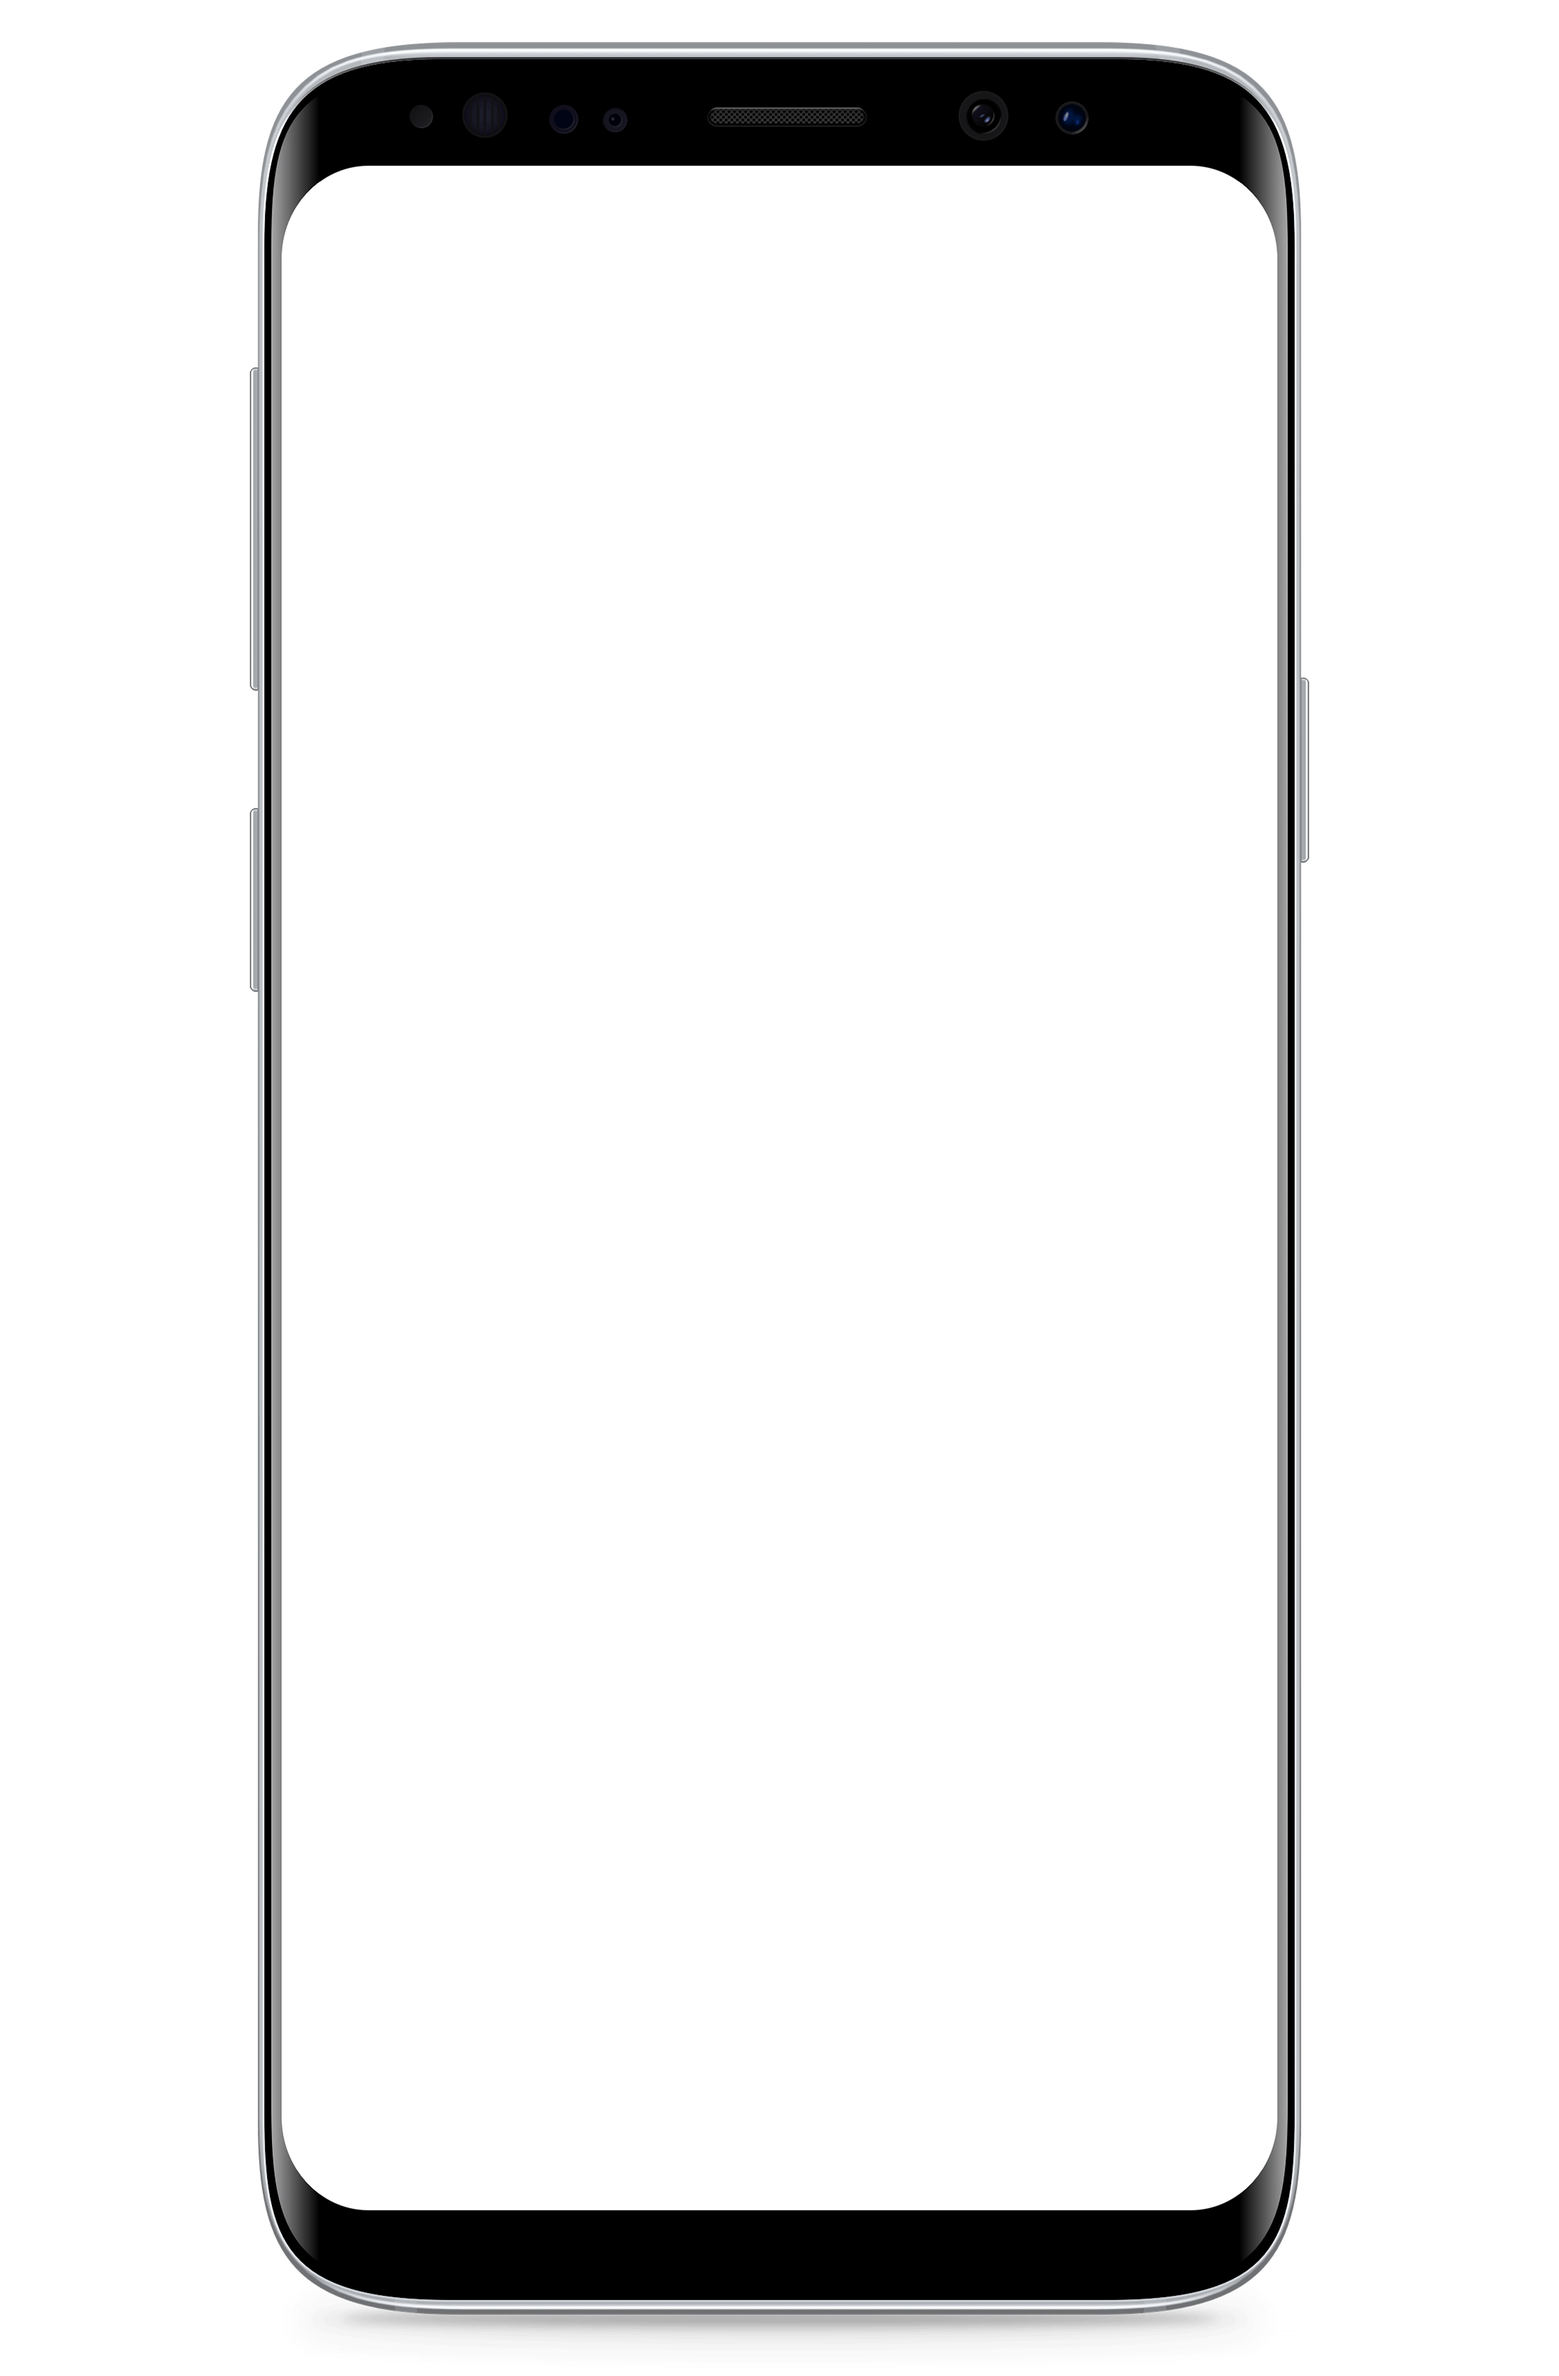
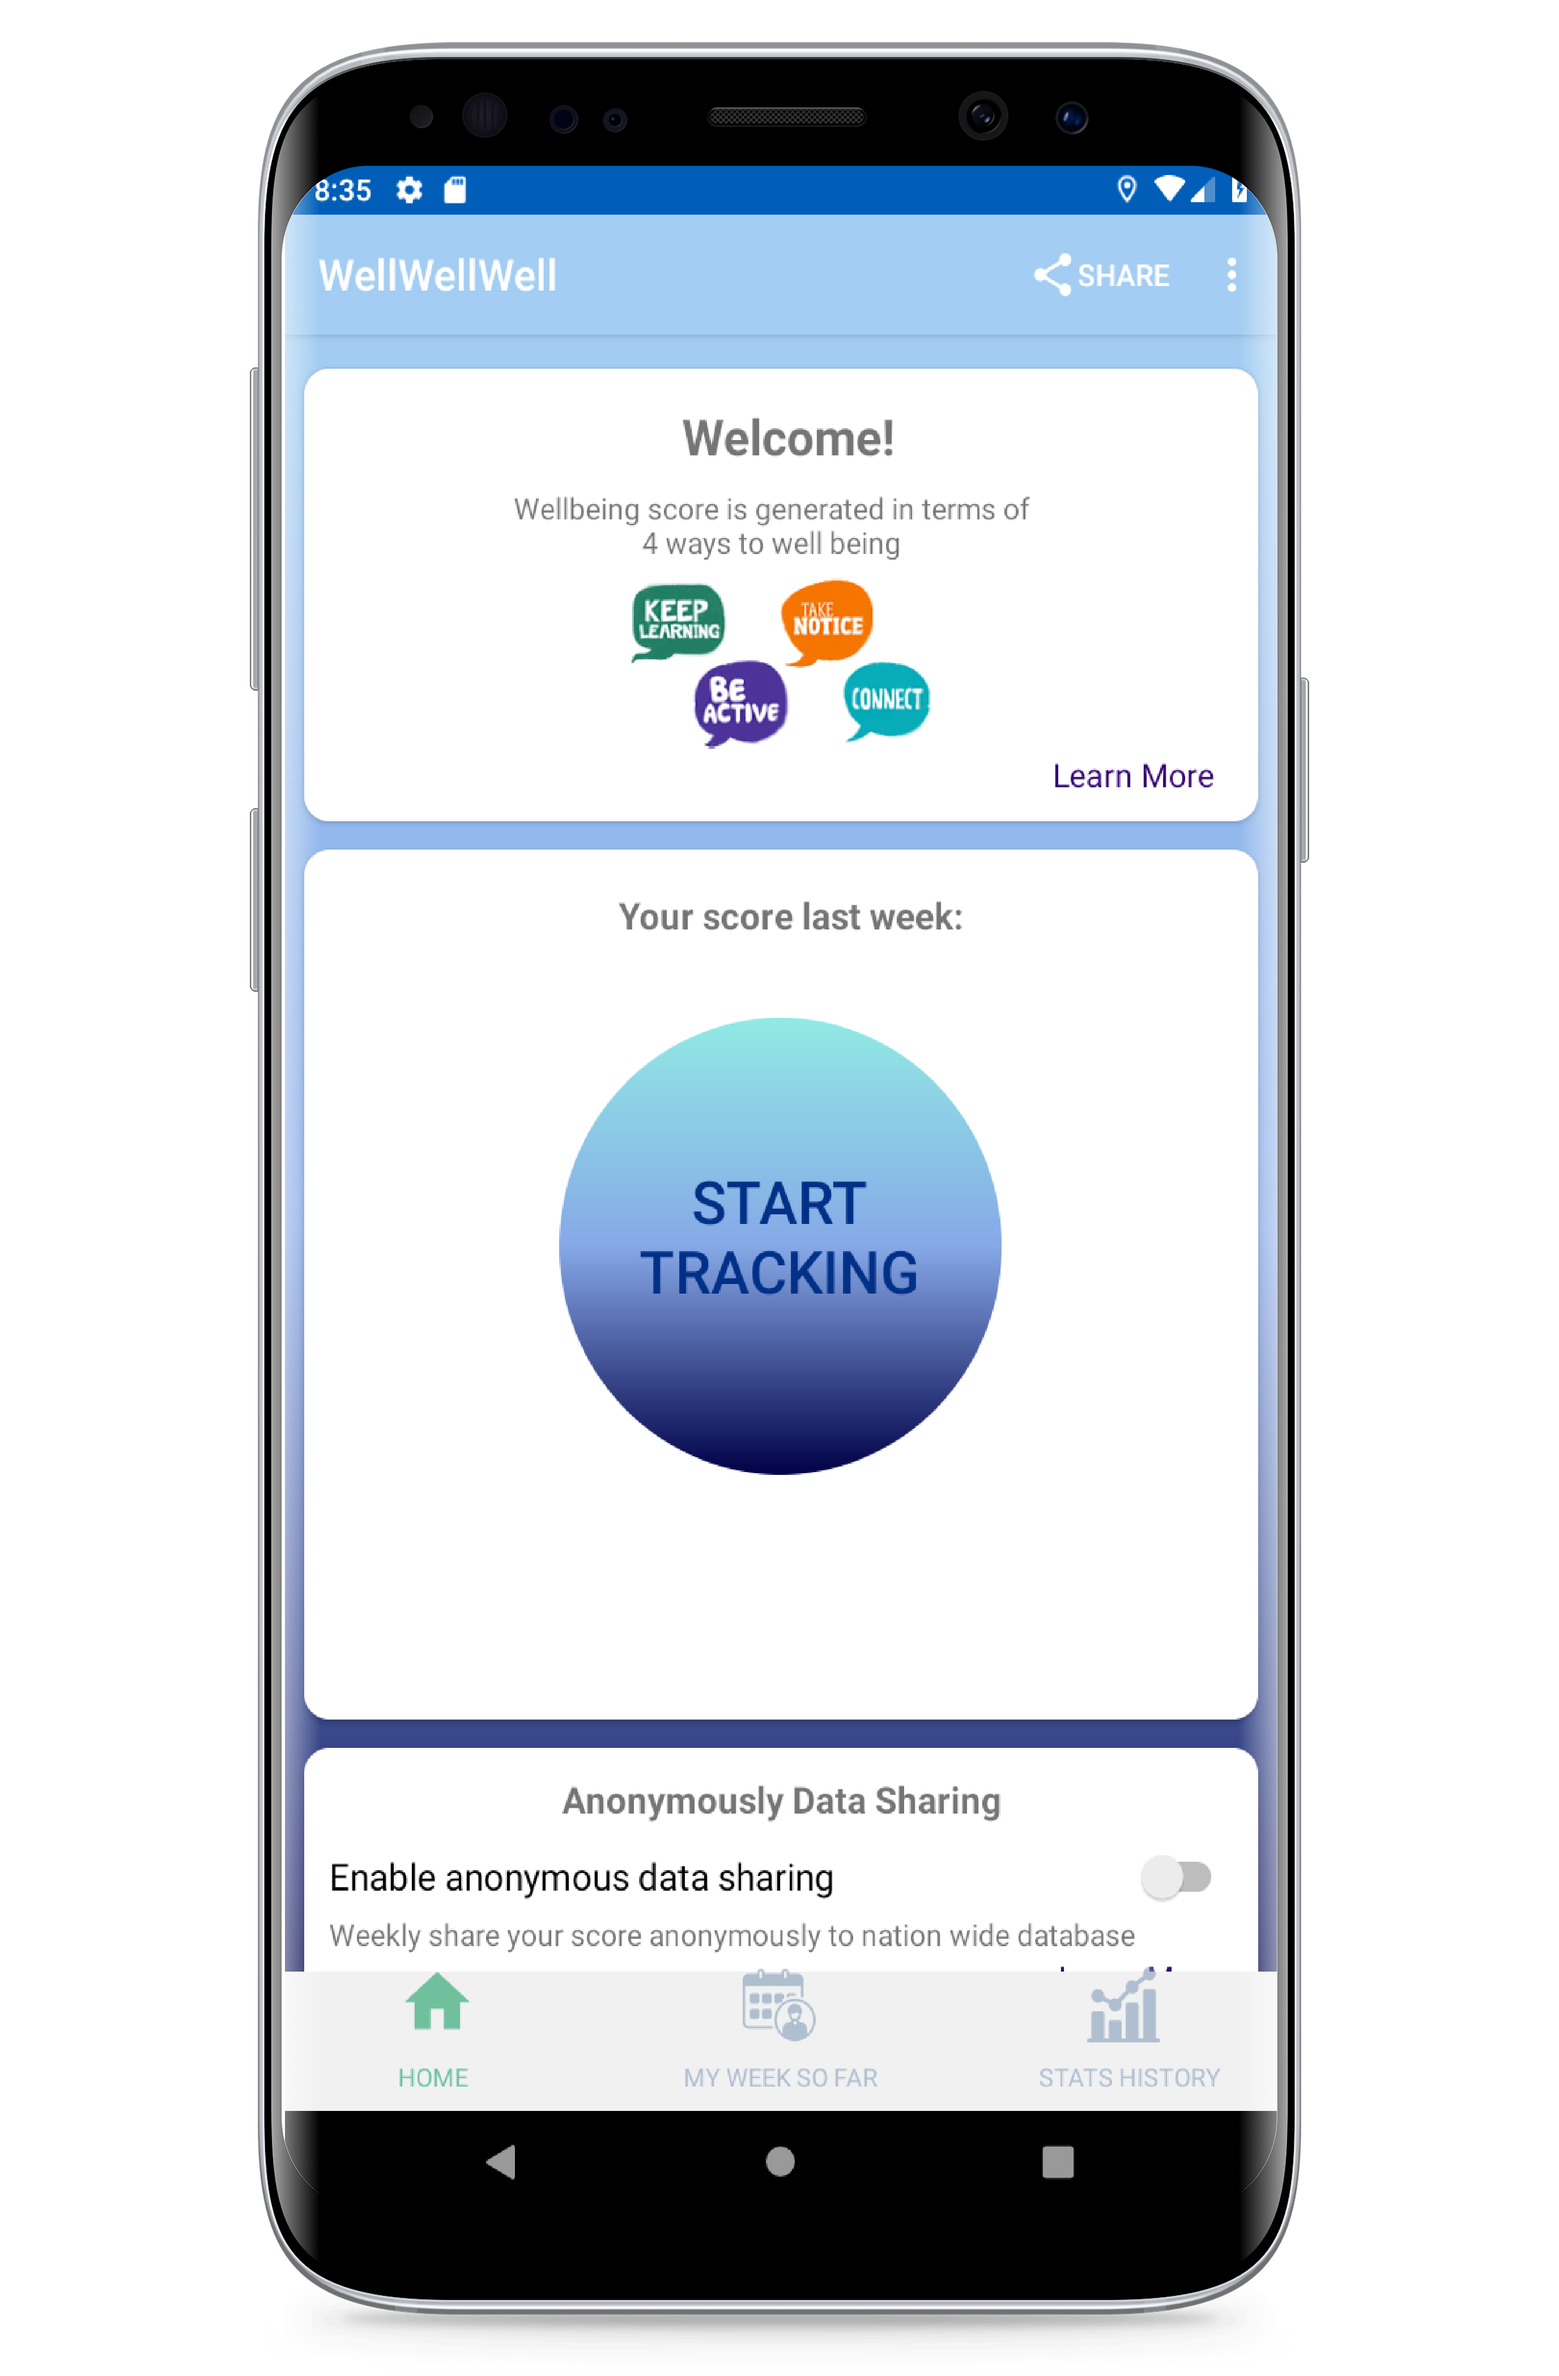
Update in index.html
Improvements: Team details updated, Header phone PNG changed, unnecessary photos deleted, Link to Linkedin Accounts added

Changed region(s): [[0.1562, 0.0625, 0.8438, 0.9368], [0.3438, 0.1874, 0.4062, 0.2186], [0.5625, 0.8119, 0.5938, 0.8431]]

diff --git a/index.html b/index.html
@@ -244,47 +244,49 @@
                 </div>
             </div>
             <div class="row">
-                <div class="col-xs-12 col-sm-4">
-                    <div class="price-box">
-                        <div class="price-header">
-                                <span class="">
-                                  <img src="images/team-4.jpg" alt="Zuka Img">
-                                </span>
-                            <h4 class="upper">Zuka Murvanidze</h4>
-                        </div>
-                        <div class="price-body">
-                            <ul>
-                                <li>Team leader</li>
-                                <li>Visualisation App developer</li>
-                                <li>Android app backend developer</li>
-                                <li>Website developer</li>
-                            </ul>
-                        </div>
-                        <div class="price-footer">
-                            <a href="#" class="bttn-white">LinkedIn</a>
-                        </div>
-                    </div>
-                    <div class="space-30 hidden visible-xs"></div>
-                </div>
 
                 <div class="col-xs-12 col-sm-4">
                     <div class="price-box">
-                        <div class="price-header">
-                                <span class="">
-                                  <img src="images/team-4.jpg" alt="Zuka Img">
-                                </span>
-                            <h4 class="upper">Nanxi Zhang</h4>
+                            <div class="price-header">
+                                    <span class="">
+                                      <img src="images/nanxi.jpeg" alt="Zuka Img">
+                                    </span>
+                                <h4 class="upper">Nanxi Zhang</h4>
                         </div>
                         <div class="price-body">
                             <ul>
-                                <li>Main UI/UX Developer</li>
+                                <li>Main Android app UI/UX developer</li>
+                                <li>Android backend developer</li>
                                 <li>Researcher</li>
                                 <li class="invisible">Fill</li>
-                                <li class="invisible">Fill</li>
                             </ul>
                         </div>
                         <div class="price-footer">
-                            <a href="#" class="bttn-white">LinkedIn</a>
+                            <a href="https://www.linkedin.com/in/zukamurvanidze/" class="bttn-white">LinkedIn</a>
+                        </div>
+                    </div>
+                    <div class="space-30 hidden visible-xs"></div>
+                </div>
+
+                <div class="col-xs-12 col-sm-4">
+                    <div class="price-box">
+
+                            <div class="price-header">
+                                    <span class="">
+                                      <img src="images/zuka.jpeg" alt="Zuka Img">
+                                    </span>
+                                <h4 class="upper">Zuka Murvanidze</h4>
+                        </div>
+                        <div class="price-body">
+                            <ul>
+                                    <li>Team leader</li>
+                                    <li>Visualisation App developer</li>
+                                    <li>Android app backend developer</li>
+                                    <li>Website developer</li>
+                            </ul>
+                        </div>
+                        <div class="price-footer">
+                            <a href="https://www.linkedin.com/in/nanxi-zhang-19980109/" class="bttn-white">LinkedIn</a>
                         </div>
                     </div>
                     <div class="space-30 hidden visible-xs"></div>
@@ -294,7 +296,7 @@
                     <div class="price-box">
                         <div class="price-header">
                                 <span class="">
-                                  <img src="images/team-4.jpg" alt="Zuka Img">
+                                  <img src="images/azizan.jpeg" alt="Zuka Img">
                                 </span>
                             <h4 class="upper">Azizan Wazir</h4>
                         </div>
@@ -307,7 +309,7 @@
                             </ul>
                         </div>
                         <div class="price-footer">
-                            <a href="#" class="bttn-white">LinkedIn</a>
+                            <a href="https://www.linkedin.com/in/azizanwazir/" class="bttn-white">LinkedIn</a>
                         </div>
                     </div>
                     <div class="space-30 hidden visible-xs"></div>
